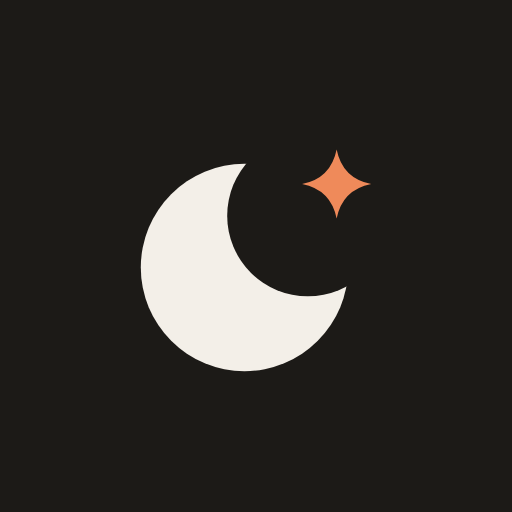
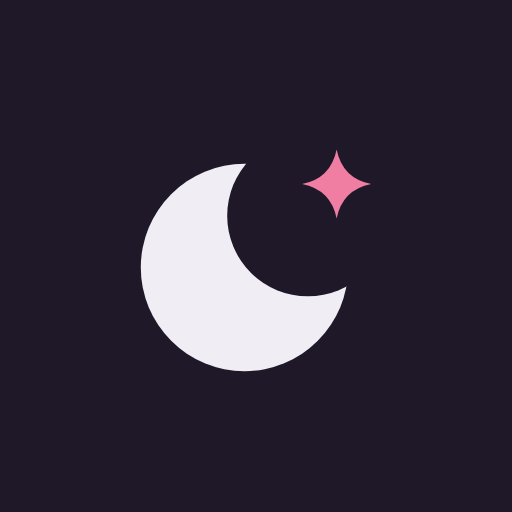
Make Moon Cell the default colours
Paper stays available in Settings and is saved only when chosen. The app
icons, link preview, manifest and browser bar colours follow Moon Cell.

Claude-Session: https://claude.ai/code/session_019r3HTPhnPdzFoNGxXs3WNw

Changed region(s): [[0.5938, 0.2812, 0.7188, 0.4375]]

diff --git a/public/js/views/settings.js b/public/js/views/settings.js
@@ -57,8 +57,8 @@ export async function render(main) {
           </fieldset>
           <fieldset class="field">
             <legend class="field-label">Colours</legend>
-            ${segmentedHTML("palette", [["paper", "Paper"], ["moon", "Moon Cell"]], readPref("palette", "paper"))}
-            <p class="hint">Paper is warm cream and clay. Moon Cell is violet and rose, after BB.</p>
+            ${segmentedHTML("palette", [["moon", "Moon Cell"], ["paper", "Paper"]], readPref("palette", "moon"))}
+            <p class="hint">Moon Cell is violet and rose, after BB. Paper is warm cream and clay.</p>
           </fieldset>
           <fieldset class="field">
             <legend class="field-label">Text size</legend>
@@ -247,7 +247,7 @@ export async function render(main) {
     $("#theme-toggle").setAttribute("aria-label", dark ? "Switch to light theme" : "Switch to dark theme");
   }));
   $$('input[name="palette"]', main).forEach((r) => r.addEventListener("change", () => {
-    try { r.value === "paper" ? localStorage.removeItem("palette") : localStorage.setItem("palette", r.value); } catch {}
+    try { r.value === "moon" ? localStorage.removeItem("palette") : localStorage.setItem("palette", r.value); } catch {}
     if (r.value === "paper") delete document.documentElement.dataset.palette;
     else document.documentElement.dataset.palette = r.value;
   }));

diff --git a/public/index.html b/public/index.html
@@ -5,8 +5,8 @@
 <meta name="viewport" content="width=device-width, initial-scale=1, viewport-fit=cover">
 <title>MoonPaper</title>
 <meta name="description" content="Write your own characters and talk to them through any OpenAI-compatible API or proxy.">
-<meta name="theme-color" content="#f3efe8" media="(prefers-color-scheme: light)">
-<meta name="theme-color" content="#161412" media="(prefers-color-scheme: dark)">
+<meta name="theme-color" content="#f1edf5" media="(prefers-color-scheme: light)">
+<meta name="theme-color" content="#131019" media="(prefers-color-scheme: dark)">
 <meta property="og:type" content="website">
 <meta property="og:url" content="https://shiru-bot-garden.vercel.app/">
 <link rel="canonical" href="https://shiru-bot-garden.vercel.app/">

diff --git a/public/js/theme-init.js b/public/js/theme-init.js
@@ -6,10 +6,12 @@ try {
   root.dataset.theme = dark ? "dark" : "light";
   const text = localStorage.getItem("textSize");
   const chatText = localStorage.getItem("chatTextSize");
-  const palette = localStorage.getItem("palette");
-  if (palette) root.dataset.palette = palette;
+  // Moon Cell is the default; Paper is saved only when chosen.
+  const palette = localStorage.getItem("palette") ?? "moon";
+  if (palette !== "paper") root.dataset.palette = palette;
   if (text) root.dataset.text = text;
   if (chatText) root.dataset.chatText = chatText;
 } catch {
   root.dataset.theme = "light";
+  root.dataset.palette = "moon";
 }

diff --git a/public/js/palette.js b/public/js/palette.js
@@ -21,7 +21,7 @@ export function goToSettings(section) {
 
 const go = (hash) => () => { location.hash = hash; };
 function setPalette(value) {
-  try { value === "paper" ? localStorage.removeItem("palette") : localStorage.setItem("palette", value); } catch { /* private mode */ }
+  try { value === "moon" ? localStorage.removeItem("palette") : localStorage.setItem("palette", value); } catch { /* private mode */ }
   if (value === "paper") delete document.documentElement.dataset.palette;
   else document.documentElement.dataset.palette = value;
   const radio = document.querySelector(`input[name="palette"][value="${value}"]`);

diff --git a/public/js/help.js b/public/js/help.js
@@ -11,7 +11,7 @@ export const NEWS = [
   {
     version: "2026.09.23.3",
     items: [
-      ["Moon Cell colours", "Violet and rose, after BB. Turn them on in Settings → Appearance → Colours, or type \"moon\" in the search box."],
+      ["Moon Cell colours", "The site is now violet and rose, after BB. The old cream and clay look is still there: Settings → Appearance → Colours → Paper, or type \"paper\" in the search box."],
       ["Moon phases", "While something works in a chat, the line under the message box shows a small moon going through its phases."],
     ],
   },

diff --git a/README.md b/README.md
@@ -77,8 +77,8 @@ server-side storage of your key.
 - **Favourites**: star a bot on the home page to keep it at the front of the list.
 - **Rename in place**: click a chat's name in the chat header to rename it. The ⋯ menu's
   Rename still offers a suggested title.
-- **Moon Cell colours**: Settings → Appearance → Colours switches between Paper (warm cream
-  and clay, the default) and Moon Cell (violet and rose, after BB), in light and dark.
+- **Colours**: Moon Cell (violet and rose, after BB; the default) or Paper (warm cream and
+  clay), in light and dark. Settings → Appearance → Colours.
 - **Edit your persona from a chat**: the pencil beside "Speaking as" edits the persona's
   name and description. The change applies to every chat that uses that persona.
 - **Bonds in group scenes**: every character in a group chat has a bond of their own.
